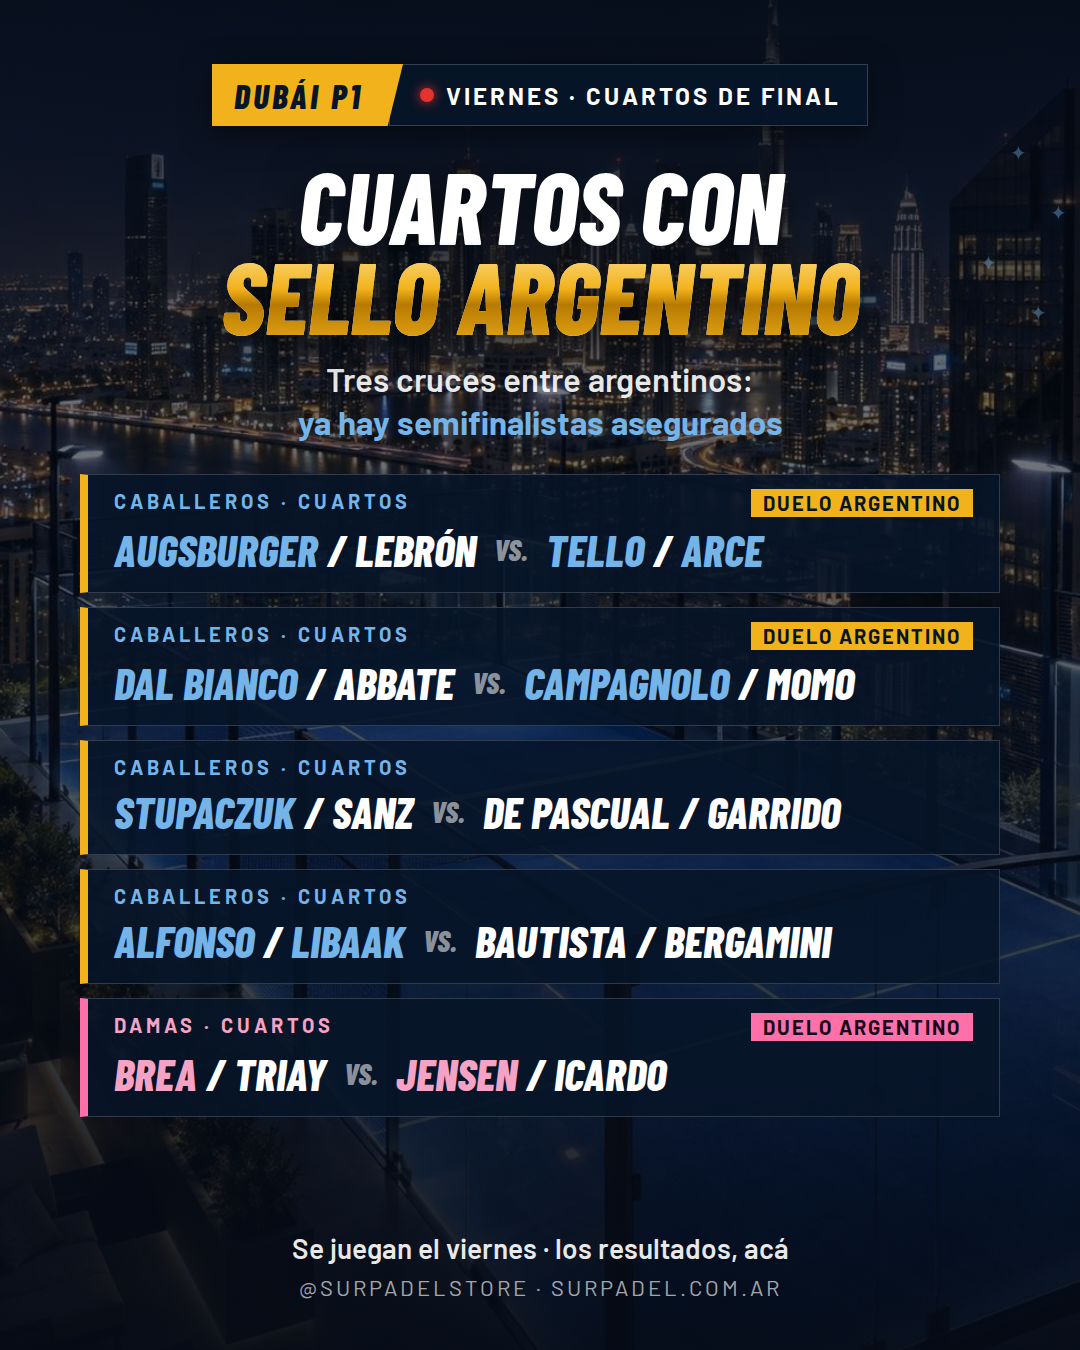
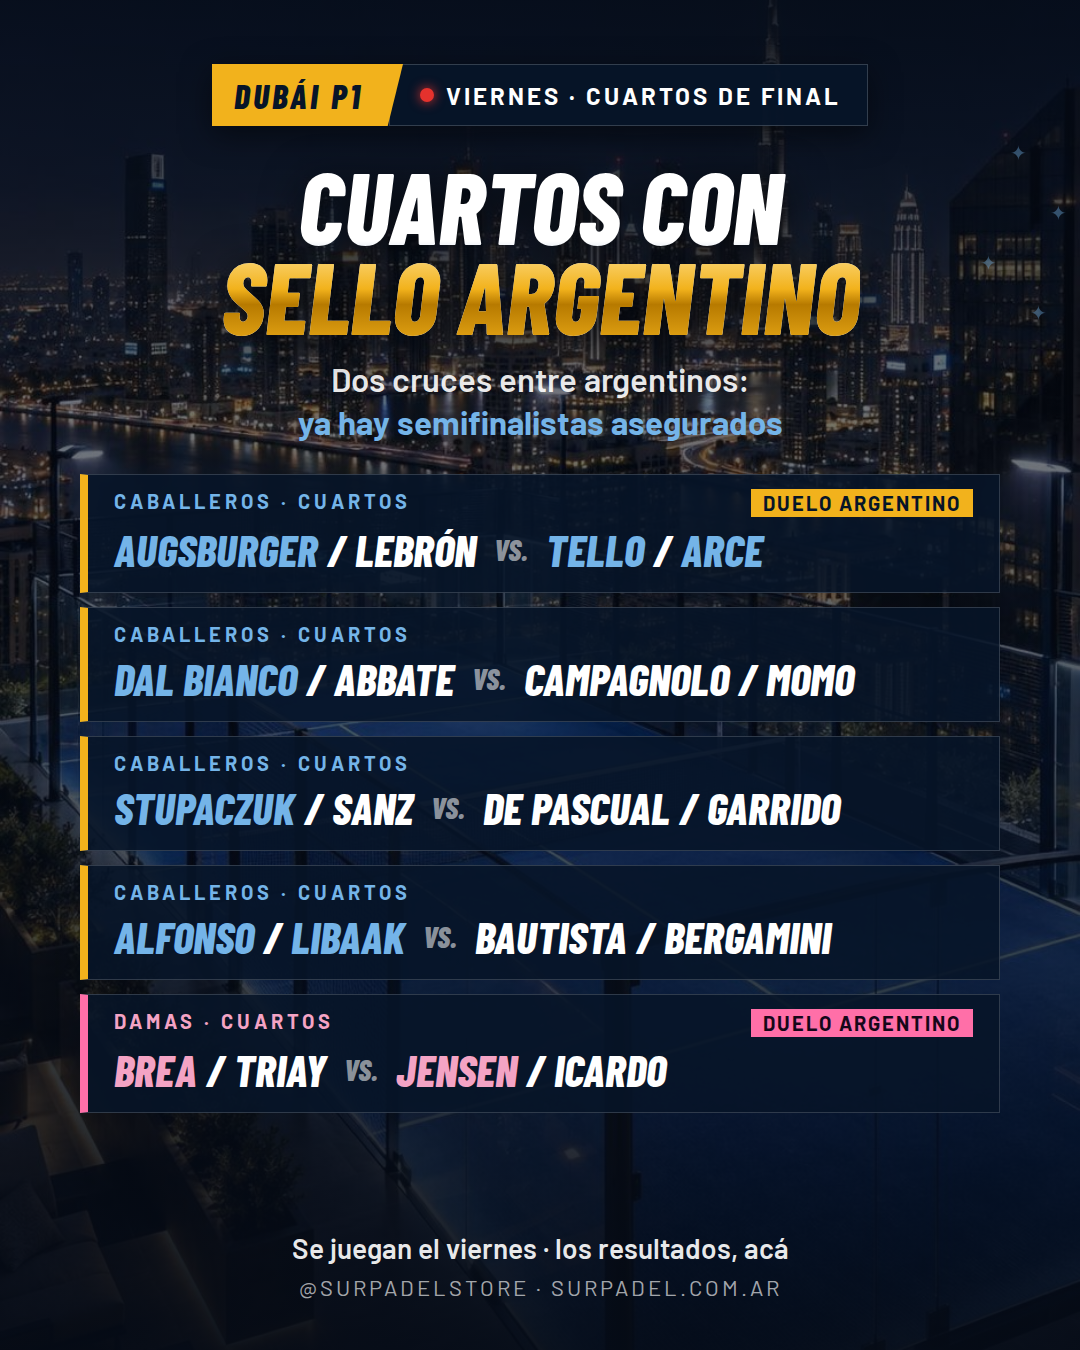
Piezas: instagram/2026-11-dubai/fix_dia3.py [skip ci]

Changed region(s): [[0.0611, 0.4356, 0.9167, 0.8089], [0.3056, 0.2489, 0.7028, 0.3111], [0.8861, 0.5289, 0.9167, 0.56]]

diff --git a/instagram/2026-11-dubai/dubai_cuartos.py b/instagram/2026-11-dubai/dubai_cuartos.py
@@ -78,7 +78,7 @@ def cruce(a, b, rosa=False, duelo=False):
 
 def cuartos():
     filas = (cruce("<em>Augsburger</em> / Lebrón", "<em>Tello</em> / <em>Arce</em>", duelo=True)
-             + cruce("<em>Dal Bianco</em> / Abbate", "<em>Campagnolo</em> / Momo", duelo=True)
+             + cruce("<em>Dal Bianco</em> / Abbate", "Campagnolo / Momo")
              + cruce("<em>Stupaczuk</em> / Sanz", "De Pascual / Garrido")
              + cruce("<em>Alfonso</em> / <em>Libaak</em>", "Bautista / Bergamini")
              + cruce("<em>Brea</em> / Triay", "<em>Jensen</em> / Icardo", rosa=True, duelo=True))
@@ -86,7 +86,7 @@ def cuartos():
 <div class=wrap style="padding:64px 80px 50px">
  <div class=strip><div class=a>DUBÁI P1</div><div class=b><span class=live></span>Viernes · cuartos de final</div></div>
  <div class=metal style="font-size:100px;margin-top:34px">Cuartos con<br><span class=gold>sello argentino</span></div>
- <div class=sub style="margin-top:18px">Tres cruces entre argentinos:<br><b>ya hay semifinalistas asegurados</b></div>
+ <div class=sub style="margin-top:18px">Dos cruces entre argentinos:<br><b>ya hay semifinalistas asegurados</b></div>
  <div style="width:100%;display:flex;flex-direction:column;gap:14px;margin-top:30px">{filas}</div>
  <div style="margin-top:auto;display:flex;flex-direction:column;align-items:center;gap:8px">
   <div class=sub style="font-size:28px">Se juegan el viernes · los resultados, acá</div>{BRAND}</div>
